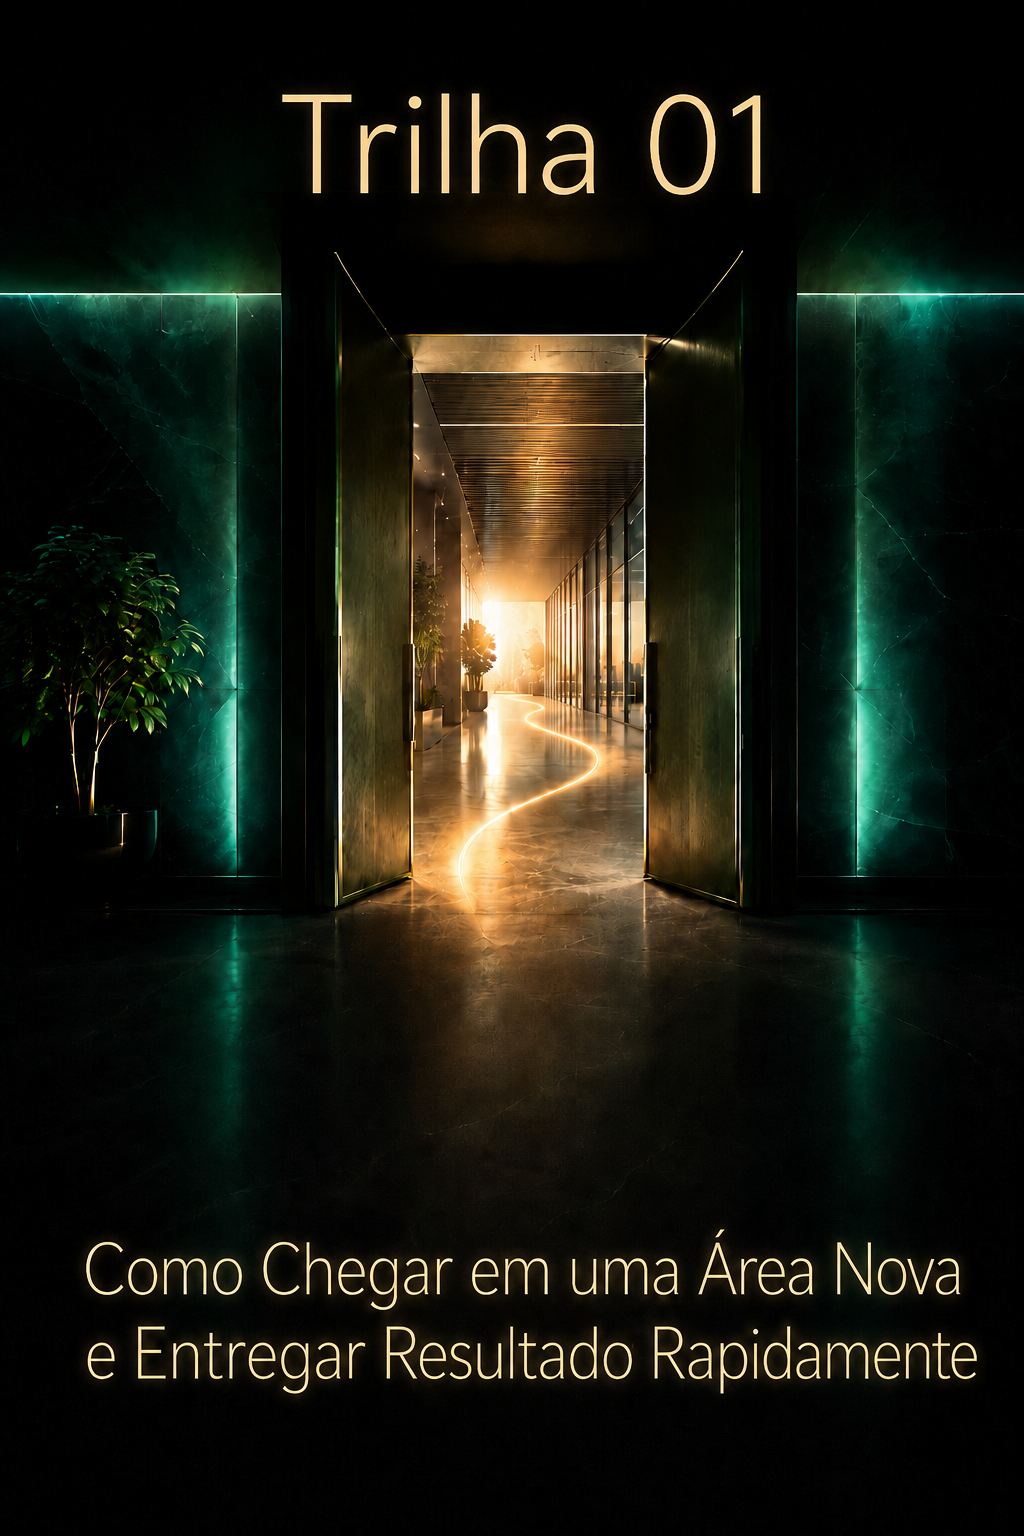
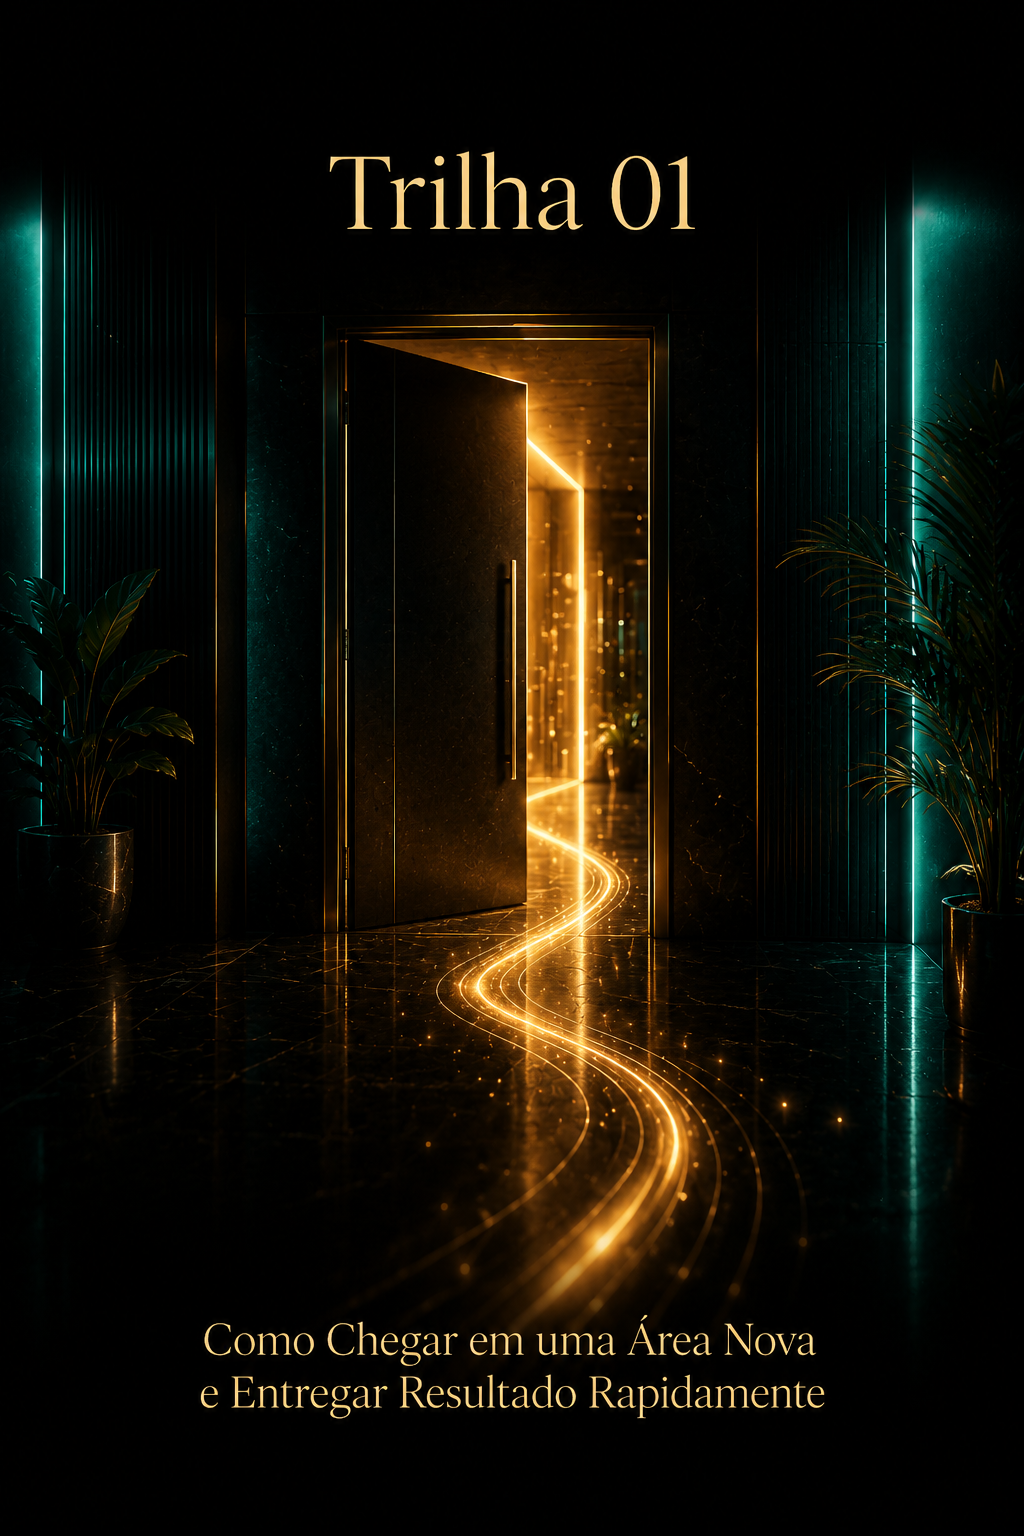
Landing gratis: nova imagem da Trilha 1 + imagens reais nos blocos
- Substitui trilha-01.png pela nova versao (texto no tamanho consistente).
- Bloco "Video-aulas": imagem do Israel dando aula (bloco-videoaulas.png).
- Bloco "Mentor Israel digital": screenshot do chat (bloco-mentor.png).
- .imgph agora usa object-fit cover (placeholder do bloco Certificado mantido).

diff --git a/src/components/LandingComecar.tsx b/src/components/LandingComecar.tsx
@@ -132,7 +132,7 @@ const CSS = `
 /* 3 blocos (vídeos/mentor/certificado) com imagem no topo */
 .lc .trio{display:grid;grid-template-columns:repeat(3,1fr);gap:16px}
 .lc .triocard{background:rgba(255,255,255,.025);border:1px solid var(--line);border-radius:18px;overflow:hidden;display:flex;flex-direction:column}
-.lc .triocard .imgph{aspect-ratio:16/9;background:linear-gradient(150deg,#101a3a,#0a0f22);border-bottom:1px solid var(--line);display:flex;align-items:center;justify-content:center;color:var(--txt2);font-size:13px}
+.lc .triocard .imgph{aspect-ratio:16/9;width:100%;object-fit:cover;background:linear-gradient(150deg,#101a3a,#0a0f22);border-bottom:1px solid var(--line);display:flex;align-items:center;justify-content:center;color:var(--txt2);font-size:13px}
 .lc .triocard .body{padding:22px}
 .lc .triocard .e{font-size:24px;margin-bottom:10px}
 .lc .triocard h3{font-size:17px;font-weight:700;margin-bottom:8px}
@@ -354,11 +354,11 @@ export default function LandingComecar() {
         <div className="wrap" style={{ marginTop: 36 }}>
           <div className="trio">
             <Reveal className="triocard" delay={0}>
-              <div className="imgph">imagem</div>
+              <img className="imgph" src="/trilhas/bloco-videoaulas.png" alt="Vídeo-aula do Israel" loading="lazy" />
               <div className="body"><div className="e">🎬</div><h3>Vídeo-aulas de cada ferramenta</h3><p>Para cada ferramenta há vídeos do Israel ensinando quando usar e como preencher — é só clicar e assistir no ponto que interessa.</p></div>
             </Reveal>
             <Reveal className="triocard" delay={0.1}>
-              <div className="imgph">imagem</div>
+              <img className="imgph" src="/trilhas/bloco-mentor.png" alt="Mentor Israel digital respondendo no chat" loading="lazy" />
               <div className="body"><div className="e">🤖</div><h3>Mentor Israel digital incluído</h3><p>Responde como o próprio Israel responderia, com base nos nossos vídeos e no método LBW. Te ajuda a destravar o seu projeto.</p></div>
             </Reveal>
             <Reveal className="triocard" delay={0.2}>
